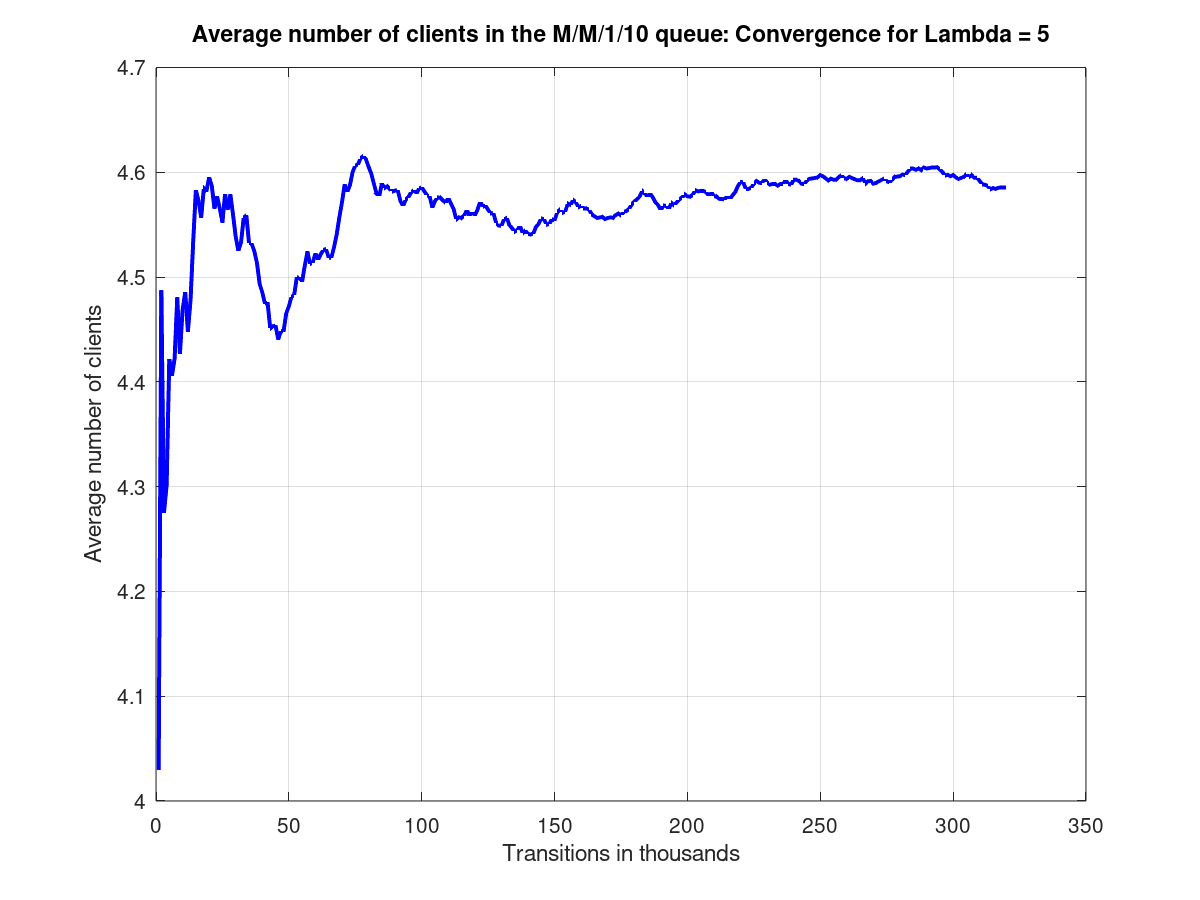
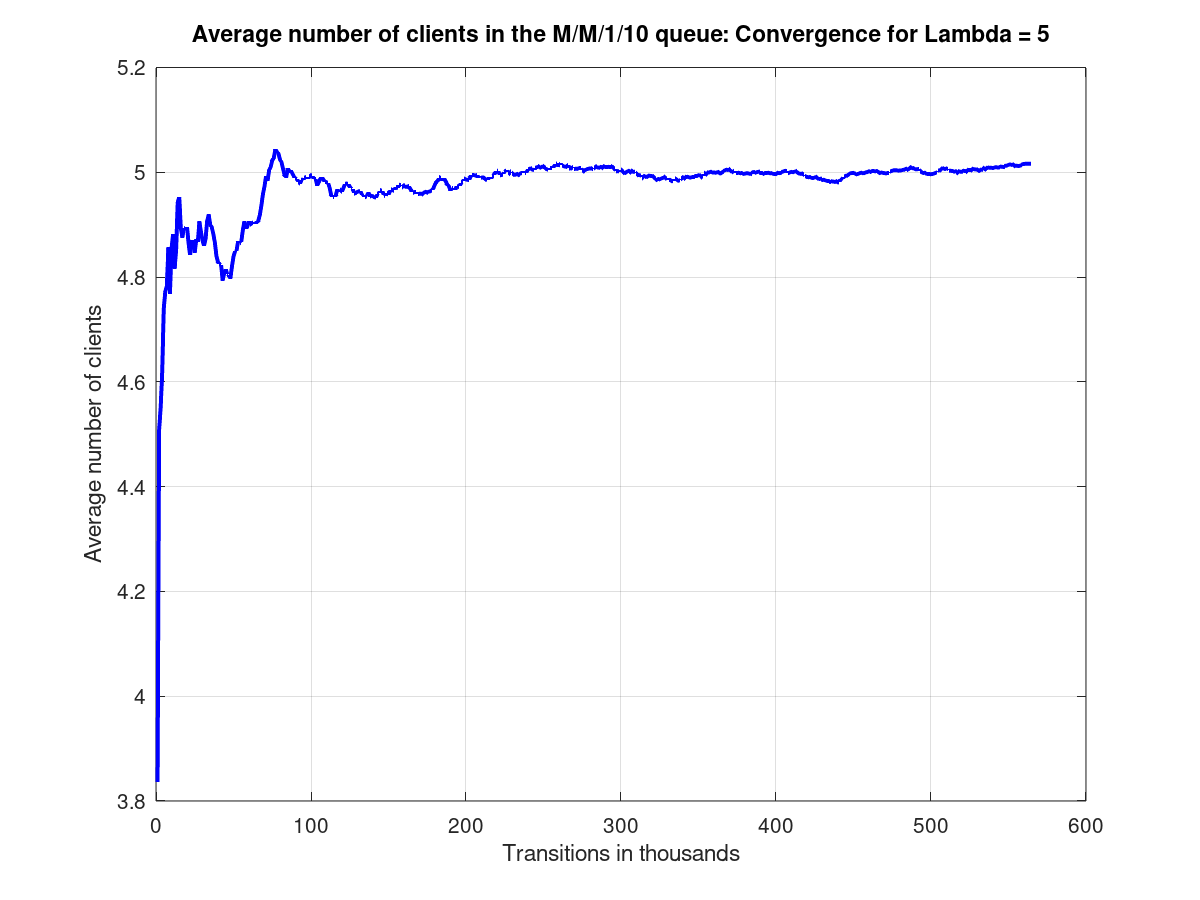
Minor Changes

diff --git a/Exercises/Lab3/ask1.m b/Exercises/Lab3/ask1.m
@@ -59,17 +59,13 @@ for i = lambdaAll
             endif 
             %}
             total_arrivals = total_arrivals + 1;
-            try % to catch the exception if variable arrivals(i) is undefined. Required only for systems with finite capacity.
+            % to catch the exception if variable arrivals(i) is undefined. Required only for systems with finite capacity.
             x = arrivals(current_state + 1) + 1
             arrivals(current_state + 1) = x; % increase the number of arrivals in the current state
-            current_state = current_state + 1;
-            catch
-            if i == 10
-                arrivals(current_state) = arrivals(current_state) + 1 ;
+            if (current_state != 10) 
+                current_state = current_state + 1;
             endif
-            %current_state = current_state + 1;
-            end
-        else % departure
+            else % departure
             %{
             if 0 < my_i < 31
                 traceMatr(my_i,5) = 1
